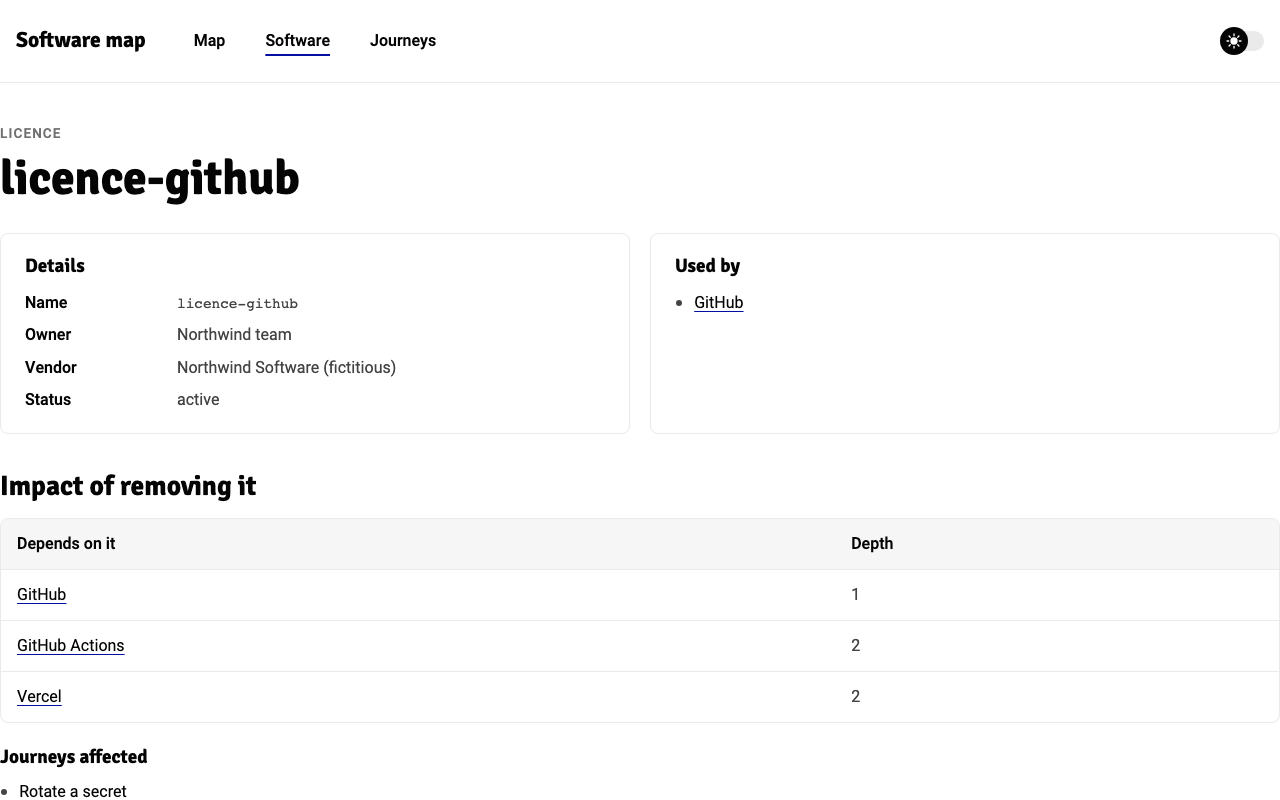
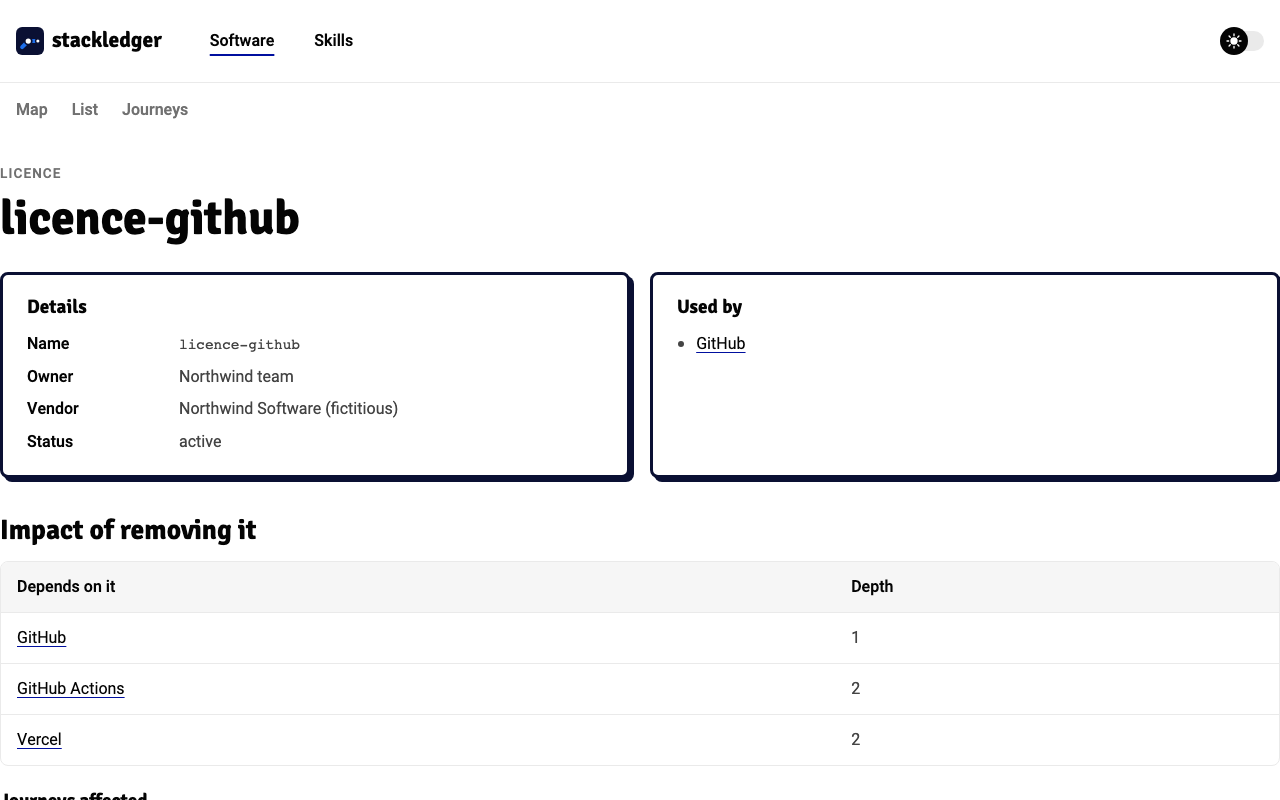
review: checkInk by value, dark rim on pressed chips, line casing and colour in Example map, site fonts from tokens; docs and README images

diff --git a/test/unit/map-svg.test.ts b/test/unit/map-svg.test.ts
@@ -61,6 +61,10 @@ test('Custom ink is refused',()=>{
  expect(()=>renderSvg(geometry(),wide)).toThrow(/outlineWidth/);
  const flat=structuredClone(themes.light);flat.shadow.enabled=false;
  expect(()=>renderSvg(geometry(),flat)).toThrow(/shadow/);
+ // Same values in another key order are the same ink; a changed value is not.
+ const reordered={...themes.dark,shadow:{dy:themes.dark.shadow.dy,dx:themes.dark.shadow.dx,color:themes.dark.shadow.color,enabled:true}};
+ expect(()=>renderSvg(geometry(),reordered)).not.toThrow();
+ expect(()=>renderSvg(geometry(),{...reordered,shadow:{...reordered.shadow,color:'#4C5CB9'}})).toThrow(/shadow/);
 });
 test('Other theme fields stay free',()=>{
  const t=structuredClone(themes.light);t.zoneOpacity=0.5;
@@ -363,7 +367,8 @@ test('Legend interchange is a capsule', () => {
 // the site draw them. Only the painting may differ, so geometry is compared, not bytes.
 function placement(svg:string){
  const doc=parseSvg(svg),groups=Array.from(doc.getElementsByTagName('g'));
- const lines=groups.filter(g=>g.getAttribute('data-ref')?.startsWith('line:')).map(g=>[g.getAttribute('data-ref'),Array.from(g.getElementsByTagName('path')).map(p=>p.getAttribute('d'))[0]]);
+ // Every path of a line: its casing and its colour.
+ const lines=groups.filter(g=>g.getAttribute('data-ref')?.startsWith('line:')).map(g=>[g.getAttribute('data-ref'),Array.from(g.getElementsByTagName('path')).map(p=>p.getAttribute('d'))]);
  // A station's outlined face is its last white-or-muted shape with an ink stroke; its centre is cx,cy or the capsule's start.
  const stations=groups.filter(g=>g.getAttribute('data-ref')?.startsWith('component:')).map(g=>{
   // Licence markers (radius 5) and renewal rings (no fill) share the group; they are not the marker.

diff --git a/site/src/styles/tokens.css b/site/src/styles/tokens.css
@@ -22,8 +22,8 @@
   --color-text-light: var(--ds-site-light-text-light);
   --color-on-primary: #ffffff;
 
-  --font-primary: "Heebo", system-ui, sans-serif;
-  --font-secondary: "Signika", system-ui, sans-serif;
+  --font-primary: var(--ds-site-font-primary);
+  --font-secondary: var(--ds-site-font-secondary);
 
   --text-base: var(--ds-site-font-size-base);
   --text-base-sm: var(--ds-site-font-size-base-small);
@@ -43,6 +43,8 @@
   /* The identity's ink frame (cards, buttons, chips): ink outline and hard shadow. */
   --frame-outline: var(--ds-outline-small) solid var(--ds-color-ink);
   --frame-shadow: var(--ds-shadow-small) var(--ds-shadow-small) 0 var(--ds-surface-light-shadow);
+  /* What a frame keeps when it is pressed down onto its shadow: nothing in light, the rim in dark. */
+  --frame-pressed: none;
 }
 
 :root[data-theme="dark"] {
@@ -61,6 +63,7 @@
 
   /* On a dark page the ink outline gets a light rim and the shadow turns indigo, as on the map. */
   --frame-shadow: 0 0 0 var(--ds-surface-dark-rim-width) var(--ds-surface-dark-rim), var(--ds-shadow-small) var(--ds-shadow-small) 0 var(--ds-surface-dark-shadow);
+  --frame-pressed: 0 0 0 var(--ds-surface-dark-rim-width) var(--ds-surface-dark-rim);
 }
 
 @media (prefers-color-scheme: dark) {
@@ -79,5 +82,6 @@
     --color-on-primary: #040404;
 
     --frame-shadow: 0 0 0 var(--ds-surface-dark-rim-width) var(--ds-surface-dark-rim), var(--ds-shadow-small) var(--ds-shadow-small) 0 var(--ds-surface-dark-shadow);
+  --frame-pressed: 0 0 0 var(--ds-surface-dark-rim-width) var(--ds-surface-dark-rim);
   }
 }

diff --git a/src/map/themes.ts b/src/map/themes.ts
@@ -86,8 +86,15 @@ export function checkInk(theme: Theme): void {
   const own = fromTokens(theme.surface, theme.zoneOpacity, theme.zoneTitleTint);
   const fields = ['outline', 'outlineWidth', 'shadow', 'rim', 'casing', 'lineWidth'] as const;
   for (const field of fields) {
-    if (JSON.stringify(theme[field]) !== JSON.stringify(own[field])) throw new Error(`Theme ${field} must be the design system's for the ${theme.surface} surface`);
+    if (!sameValue(theme[field], own[field])) throw new Error(`Theme ${field} must be the design system's for the ${theme.surface} surface`);
   }
+}
+
+/** Equal by value: numbers, strings and booleans, or objects with the same keys holding equal values, in any order. */
+function sameValue(a: unknown, b: unknown): boolean {
+  if (typeof a !== 'object' || typeof b !== 'object' || a === null || b === null) return Object.is(a, b);
+  const keys = Object.keys(b);
+  return Object.keys(a).length === keys.length && keys.every(key => Object.hasOwn(a, key) && sameValue((a as Record<string, unknown>)[key], (b as Record<string, unknown>)[key]));
 }
 
 /** How far a theme's ink reaches beyond plain geometry: the extra width of a line's casing, the

diff --git a/test/browser/site.spec.ts b/test/browser/site.spec.ts
@@ -264,6 +264,17 @@ test('Card frame in dark', async ({ page }) => {
   expect(await page.evaluate(() => getComputedStyle(document.body).backgroundColor)).toBe('rgb(28, 28, 28)');
 });
 
+test('Pressed chip keeps the dark rim', async ({ page }) => {
+  for (const [scheme, shadow] of [['light', 'none'], ['dark', 'rgb(238, 242, 255) 0px 0px 0px 1px']] as const) {
+    await page.emulateMedia({ colorScheme: scheme });
+    await page.goto('/full/map/');
+    const chip = page.locator('.line-chips .btn').first();
+    await chip.click();
+    await expect(chip).toHaveAttribute('aria-pressed', 'true');
+    expect((await frameOf(page, '.line-chips .btn[aria-pressed="true"]')).shadow, scheme).toBe(shadow);
+  }
+});
+
 test('Focus still visible', async ({ page }) => {
   for (const [scheme, accent] of [['light', 'rgb(0, 15, 159)'], ['dark', 'rgb(157, 168, 255)']] as const) {
     await page.emulateMedia({ colorScheme: scheme });

diff --git a/test/integration/site.test.ts b/test/integration/site.test.ts
@@ -178,6 +178,8 @@ test('Palette from the design system', () => {
     expect(themeVar(site, '--ds-site-light-body').light).toMatch(/^#fff(?:fff)?$/);
     expect(themeVar(site, '--ds-site-dark-body').light).toBe('#1c1c1c');
     expect(themeVar(site, '--color-body')).toEqual({ light: 'var(--ds-site-light-body)', dark: 'var(--ds-site-dark-body)' });
+    expect(themeVar(site, '--font-primary').light).toBe('var(--ds-site-font-primary)');
+    expect(themeVar(site, '--font-secondary').light).toBe('var(--ds-site-font-secondary)');
   }
 });
 

diff --git a/site/src/styles/pages.css b/site/src/styles/pages.css
@@ -108,9 +108,9 @@
   font-weight: 400;
 }
 
-/* A pressed chip sits down on its shadow. */
+/* A pressed chip sits down on its shadow; in dark it keeps its rim. */
 .line-chips .btn[aria-pressed="true"] {
-  box-shadow: none;
+  box-shadow: var(--frame-pressed);
   transform: translate(var(--ds-shadow-small), var(--ds-shadow-small));
 }
 

diff --git a/openspec/changes/design-system-identity/tasks.md b/openspec/changes/design-system-identity/tasks.md
@@ -20,35 +20,35 @@ Levels: U unit, I integration (built site), B browser (Playwright). Every scenar
 
 ## 0. Evidence for gate 1
 
-- [ ] 0.1 Build the Northwind example from `main` and from a throwaway prototype of this change (outside the branch), take the home, map, a software item, a journey, the skills map and an agent page in light and dark, and put them in a before and after contact sheet. Verify: both sheets opened and looked at; shown to the owner at gate 1.
+- [x] 0.1 Build the Northwind example from `main` and from a throwaway prototype of this change (outside the branch), take the home, map, a software item, a journey, the skills map and an agent page in light and dark, and put them in a before and after contact sheet. Verify: both sheets opened and looked at; shown to the owner at gate 1.
 
 ## 1. Dependency and tokens
 
-- [ ] 1.1 Add `@brunosouzas/design-system` `0.1.1`, the first version whose coordinate limit covers the map (design §10), as an exact production dependency and refresh `npm-shrinkwrap.json`. Verify: `npm ls @brunosouzas/design-system` shows that version; `test/unit/package-metadata.test.ts` and the package tests pass.
-- [ ] 1.2 Tests first: "Theme values are the tokens", "Light theme has no rim", "Dark shadow and rim" with `#EEF2FF`, "Custom ink is refused", "Other theme fields stay free". Verify: they fail on the branch base.
-- [ ] 1.3 `src/map/themes.ts` reads the tokens and gains `surface`; the renderers check a theme's ink against its surface (design §2, §2a). Verify: `npm test`.
+- [x] 1.1 Add `@brunosouzas/design-system` `0.1.1`, the first version whose coordinate limit covers the map (design §10), as an exact production dependency and refresh `npm-shrinkwrap.json`. Verify: `npm ls @brunosouzas/design-system` shows that version; `test/unit/package-metadata.test.ts` and the package tests pass.
+- [x] 1.2 Tests first: "Theme values are the tokens", "Light theme has no rim", "Dark shadow and rim" with `#EEF2FF`, "Custom ink is refused", "Other theme fields stay free". Verify: they fail on the branch base.
+- [x] 1.3 `src/map/themes.ts` reads the tokens and gains `surface`; the renderers check a theme's ink against its surface (design §2, §2a). Verify: `npm test`.
 
 ## 2. Piece writer
 
-- [ ] 2.1 Tests first: "Stop drawn by the piece", "Piece node outside the allow-list", "Piece text has no font of its own", "Far station drawn by the piece" (whole map, both themes). Verify: they fail.
-- [ ] 2.2 `src/map/pieces.ts`: write a piece's `{ body, text }` node tree with `tag()`, leaving out `font-family`. Verify: `npm test`.
+- [x] 2.1 Tests first: "Stop drawn by the piece", "Piece node outside the allow-list", "Piece text has no font of its own", "Far station drawn by the piece" (whole map, both themes). Verify: they fail.
+- [x] 2.2 `src/map/pieces.ts`: write a piece's `{ body, text }` node tree with `tag()`, leaving out `font-family`. Verify: `npm test`.
 
 ## 3. Map
 
-- [ ] 3.1 Tests first: "Legend interchange is a capsule" (no circle, every shape grown by half its stroke inside 24 × 24); rewrite "Example map" to compare line paths, marker centres and label positions parsed from the 0.2.0 fixtures; migrate "Legend badges fit long codes without covering the line sample" to the sample `path` (design §11). Verify: the capsule test fails; the rewritten "Example map" passes on the base.
-- [ ] 3.2 `src/map/svg.ts`: markers, lines, terminal and legend badges, rule counts and the legend's interchange through the pieces; licence marker, renewal ring, halo, zones, title band and legend panel stay local (design §3). Verify: `npm test`.
+- [x] 3.1 Tests first: "Legend interchange is a capsule" (no circle, every shape grown by half its stroke inside 24 × 24); rewrite "Example map" to compare line paths, marker centres and label positions parsed from the 0.2.0 fixtures; migrate "Legend badges fit long codes without covering the line sample" to the sample `path` (design §11). Verify: the capsule test fails; the rewritten "Example map" passes on the base.
+- [x] 3.2 `src/map/svg.ts`: markers, lines, terminal and legend badges, rule counts and the legend's interchange through the pieces; licence marker, renewal ring, halo, zones, title band and legend panel stay local (design §3). Verify: `npm test`.
 
 ## 4. Diagrams
 
-- [ ] 4.1 Tests first: "Edges point right", "Strip interchange is a capsule", "Blank title" (unit and integration), "Resource without a shadow" (title centred), "Diagram of a skill" (edge head), "Long playbook name fits", "Name with only control characters"; migrate "Strip line and stops" to pipe paths and "Terminal badge over an end interchange" to the capsule's bounds, failing when no marker shape is found. Verify: the new tests fail; the migrated ones fail only where the shape changed.
-- [ ] 4.2 `strip.ts`, `neighbourhood.ts`, `relations.ts` through the pieces (design §3 to §5, §9). Verify: `npm test`.
+- [x] 4.1 Tests first: "Edges point right", "Strip interchange is a capsule", "Blank title" (unit and integration), "Resource without a shadow" (title centred), "Diagram of a skill" (edge head), "Long playbook name fits", "Name with only control characters"; migrate "Strip line and stops" to pipe paths and "Terminal badge over an end interchange" to the capsule's bounds, failing when no marker shape is found. Verify: the new tests fail; the migrated ones fail only where the shape changed.
+- [x] 4.2 `strip.ts`, `neighbourhood.ts`, `relations.ts` through the pieces (design §3 to §5, §9). Verify: `npm test`.
 
 ## 5. Site
 
-- [ ] 5.1 Tests first: "Favicon is the mark", "Header mark with a custom title", "Palette from the design system", "Accent stays stackledger's", "Card frame in light", "Card frame in dark", "Focus still visible"; update "Description with HTML". Verify: they fail.
-- [ ] 5.2 `src/site/build.ts` copies the package's `tokens.css`; `tokens.css` reads `--ds-site-*`; `base.css` and `pages.css` get the ink frame; `Header.astro` shows the mark; `favicon.svg` is the `ledgerMark` (design §6 to §8). Verify: `npm run build && npm test`, `npm run test:browser`.
+- [x] 5.1 Tests first: "Favicon is the mark", "Header mark with a custom title", "Palette from the design system", "Accent stays stackledger's", "Card frame in light", "Card frame in dark", "Focus still visible"; update "Description with HTML". Verify: they fail.
+- [x] 5.2 `src/site/build.ts` copies the package's `tokens.css`; `tokens.css` reads `--ds-site-*`; `base.css` and `pages.css` get the ink frame; `Header.astro` shows the mark; `favicon.svg` is the `ledgerMark` (design §6 to §8). Verify: `npm run build && npm test`, `npm run test:browser`.
 
 ## 6. Images and documentation
 
-- [ ] 6.1 Build the Northwind example site again from the branch, take the same pages in both themes, look at each, and regenerate the README images that changed (`docs/images/site-home.png`, `site-map-light.png`, `site-map-dark.png`, and any other in `docs/images/` that shows a changed page). Verify: images opened and checked.
-- [ ] 6.2 Update `README.md` (dependency, images), `docs/map.md`, `docs/site.md` and `docs/roadmap.md`. Verify: `test/integration/docs.test.ts`, `openspec validate --all --strict --no-interactive`, `git diff --check`.
+- [x] 6.1 Build the Northwind example site again from the branch, take the same pages in both themes, look at each, and regenerate the README images that changed (`docs/images/site-home.png`, `site-map-light.png`, `site-map-dark.png`, and any other in `docs/images/` that shows a changed page). Verify: images opened and checked.
+- [x] 6.2 Update `README.md` (dependency, images), `docs/map.md`, `docs/site.md` and `docs/roadmap.md`. Verify: `test/integration/docs.test.ts`, `openspec validate --all --strict --no-interactive`, `git diff --check`.

diff --git a/docs/map.md b/docs/map.md
@@ -37,7 +37,9 @@ Zones follow declaration order. Components join through `metadata.labels["stackl
 
 Routes use horizontal, vertical and 45-degree grid steps. Every station except a hop's endpoints is blocked. A hop stays inside its endpoint box expanded by three cells and never turns more than 90 degrees. Searches use A* with a binary heap and a 50,000-state limit. A hop takes the shortest route; among routes of equal length it prefers, in order, fewer cells beside other stations, fewer and gentler bends, fewer diagonal crossings of used corridors, running straight through its end stations, and reusing edges other hops already use. A failed hop is drawn straight and reported with its line and endpoints on stderr. Shared hops use one route. Lines sharing any grid edge occupy separate slots in line order, independent of travel direction. When every line on an edge continues together onto the next edge, the bundle keeps each line on the same side through the bend instead of re-sorting it by the new edge's direction, so a bundle never crosses itself at a corner. Bends are mitred: the two offset segments meet where their lines intersect. A slot change on a straight run uses one short 45-degree connector. Fixed slot order can still introduce crossings where bundles split or merge at interchanges.
 
-The `light` and `dark` themes preserve the catalogue's line and zone colours. All other colours, the font stack, line width, outline, casing, shadow and rim live in [src/map/themes.ts](../src/map/themes.ts). Both themes follow the illustrated diagrams of brunosouzas.com: lines are thick pipes (12 units of line colour in an ink `#0A1033` casing 6 units wider, round caps and joins; bundled lines sit side by side without overlapping); stations are white circles wider than the pipe, interchanges white capsules spanning all their lines, terminal badges pills; stations, badges, licence markers and the legend panel are stickers with an ink outline and a hard offset shadow, drawn as a shifted copy (no `transform` or `filter`); renewal rings have an ink outline. `light` sits on the tinted panel `#EEF2FF` with ink shadows; `dark` sits on navy `#14215A` with indigo `#4C5CB8` shadows and a light `#EEF1FF` rim around each sticker. Text uses `Lato, Helvetica Neue, Helvetica, Arial, sans-serif` and labels are bold; the site ships Lato, a standalone SVG names the stack and falls back to system fonts. Label and badge placement count the ink: segments are as wide as their casing, and markers and badges grow by their outline and shadow (`layoutMap(model, theme.lineWidth, inkOf(theme))`). Zone titles use the zone colour in `light` and a lighter tint of it in `dark` (`zoneTitleTint`), so they stay readable on the dark background. The renderer consumes Theme data without branching on a theme name. No font or other resource is fetched.
+The `light` and `dark` themes preserve the catalogue's line and zone colours. Every other colour and measure comes from the tokens of [`@brunosouzas/design-system`](https://www.npmjs.com/package/@brunosouzas/design-system), the visual identity of brunosouzas.com: each theme reads its `surface` (`light` or `dark`), the `map` measures and the fixed `color` meanings; [src/map/themes.ts](../src/map/themes.ts) only adds the zone opacity and title tint, which have no token. Stations, interchanges, lines, terminal badges and rule counts are drawn by the package's pieces (`stationMarker`, `pipe`, `lineBadge`, `countBadge`), written through this map's own SVG writer so the rules below apply to them. Both themes follow the illustrated diagrams of brunosouzas.com: lines are thick pipes (12 units of line colour in an ink `#0A1033` casing 6 units wider, round caps and joins; bundled lines sit side by side without overlapping); stations are white circles wider than the pipe, interchanges white capsules spanning all their lines, terminal badges pills; stations, badges, licence markers and the legend panel are stickers with an ink outline and a hard offset shadow, drawn as a shifted copy (no `transform` or `filter`); renewal rings have an ink outline. `light` sits on the tinted panel `#EEF2FF` with ink shadows; `dark` sits on navy `#14215A` with indigo `#4C5CB8` shadows and a light `#EEF2FF` rim around each sticker. Text uses `Lato, Helvetica Neue, Helvetica, Arial, sans-serif` and labels are bold; the site ships Lato, a standalone SVG names the stack and falls back to system fonts. Label and badge placement count the ink: segments are as wide as their casing, and markers and badges grow by their outline and shadow (`layoutMap(model, theme.lineWidth, inkOf(theme))`). Zone titles use the zone colour in `light` and a lighter tint of it in `dark` (`zoneTitleTint`), so they stay readable on the dark background. The renderer consumes Theme data without branching on a theme name. No font or other resource is fetched.
+
+A theme's ink must be its surface's. The renderers (`renderSvg` and the diagram renderers) throw before drawing when `outline`, `outlineWidth`, `shadow`, `rim`, `casing` or `lineWidth` differs from the design system's values for the theme's `surface`, and the error names the first such field (`Theme shadow must be the design system's for the dark surface`). The pieces paint that ink from the tokens, while the layout counts the theme's values, so a different ink would misplace labels. Other fields, such as `zoneOpacity`, `zoneTitleTint`, `background` or `font`, stay free. To start a custom theme, copy `themes.light` or `themes.dark` and change only those.
 
 The output has a fixed element/attribute vocabulary, escaped XML text, validated hex colours and finite numbers rounded to two decimals. It contains no links, scripts, CSS, external references, document types or processing instructions. Identical served documents, theme and date yield byte-identical SVG, regardless of file names or document order.
 

diff --git a/docs/site.md b/docs/site.md
@@ -100,7 +100,7 @@ Without JavaScript every page still works as a document: the whole map, both leg
 
 ### Look and settings
 
-The look follows brunosouzas.com (based on the Astroplate theme, MIT), with the Heebo and Signika fonts shipped in the package. The map and the diagrams use the style of the site's illustrations (ink outlines, hard offset shadows, see [the map](map.md#routes-and-themes)) and the Lato font, also shipped in the package (`@fontsource/lato`, SIL Open Font License 1.1). A theme switch in the header follows the system's light or dark setting until the reader chooses, then remembers the choice in the browser for every page of that site. `spec.site` in the `Settings` document sets the site title and up to four light-theme colours; see [the catalogue format](catalogue-format.md#settings-and-views).
+The look follows brunosouzas.com (based on the Astroplate theme, MIT), with the Heebo and Signika fonts shipped in the package. Its palette, fonts and type scale come from the `site` tokens of `@brunosouzas/design-system`: the build copies the package's `tokens.css` into each site, so no stylesheet is fetched. The accent stays stackledger's (`#000f9f` light, `#9da8ff` dark). Cards, buttons and panels have the ink frame of the site's illustrations: a 3px ink outline with a hard 4px offset shadow, and in dark a 1px light rim and an indigo shadow. The favicon and the mark beside the site title in the header are the package's `ledgerMark` (the mark is decorative: empty `alt`). The map and the diagrams use the style of the site's illustrations (ink outlines, hard offset shadows, see [the map](map.md#routes-and-themes)) and the Lato font, also shipped in the package (`@fontsource/lato`, SIL Open Font License 1.1). A theme switch in the header follows the system's light or dark setting until the reader chooses, then remembers the choice in the browser for every page of that site. `spec.site` in the `Settings` document sets the site title and up to four light-theme colours; see [the catalogue format](catalogue-format.md#settings-and-views).
 
 **Known limitation:** a remembered theme is applied by a script file after the page starts to load (the policy forbids inline scripts), so a page can show the system theme for a moment before switching.
 

diff --git a/docs/roadmap.md b/docs/roadmap.md
@@ -14,6 +14,7 @@ The first version (v1) is split into OpenSpec changes, delivered in this order. 
 | 6 | `mac-discovery` | `stackledger discover` (Homebrew formulae and casks, App Store through `mas`, `/Applications` and `~/Applications`, launchd, mise, global npm packages and pipx; every program in the macOS sandbox with network and writes denied; one snapshot file per machine in `~/.stackledger/<machine>/`) and `stackledger drift` (installed but not declared, declared but missing, not checked), matched only through `stackledger/<source>` annotations; it proposes annotations and `dependsOn` relations a person confirms, and `--scaffold` writes draft component files outside the catalogue | Delivered ([#8](https://github.com/brunosouzas/stackledger/pull/8)); spec in `openspec/specs/mac-discovery/`, `discover-command/` and `drift-command/` |
 | 7 | `catalogue-deployment` | Publishable npm package, owner-approved release workflow with provenance and SBOM, a catalogue repository pipeline template, and protected hosting recipes ([ADR 6](adr/0006-authentication-at-an-identity-aware-proxy.md)) | Delivered, released as 0.1.0 ([#9](https://github.com/brunosouzas/stackledger/pull/9)) |
 | 8 | `map-theme-ink` | The map and the page diagrams in the illustrated style of brunosouzas.com: ink outline `#0A1033`, pipe lines with an ink casing, hard offset shadows (indigo with a light rim on dark), the tinted panel and navy backgrounds, and the Lato font shipped with the site; it replaces the look of the `light` and `dark` themes | Delivered ([#10](https://github.com/brunosouzas/stackledger/pull/10)) |
+| 9 | `design-system-identity` | The map, the page diagrams and the site drawn with [`@brunosouzas/design-system`](https://www.npmjs.com/package/@brunosouzas/design-system), the identity of brunosouzas.com: its tokens for both themes, its pieces for stations, interchanges (capsules on the map, the line strip and the legend), lines, badges, rule counts and diagram boxes and arrows, its `ledgerMark` as the favicon and header mark, and the ink frame on cards and buttons; a theme with its own ink is refused | In progress ([#29](https://github.com/brunosouzas/stackledger/pull/29), AB#164) |
 
 ## v2: agent skills
 

diff --git a/README.md b/README.md
@@ -60,6 +60,7 @@ The diagram as Mermaid, and the personal and corporate modes: [docs/how-it-works
 4. **The website is static.** No server, no database, nothing to patch. Why: [ADR 5](docs/adr/0005-static-site-no-server.md).
 5. **It is written in TypeScript**, so the same map engine runs at build time and in the browser. Why: [ADR 9](docs/adr/0009-typescript-end-to-end.md).
 6. **Agent skills are a second ledger in the same tool.** The skills, agents, playbooks and rules your AI agents use are read from their own folders, never copied into YAML. `stackledger skills validate` checks them, `stackledger skills map` draws them in the skills repository, and since 0.3.0 the site has a Skills section next to Software; linking each skill to the software it needs is planned. Why: [ADR 10](docs/adr/0010-agent-skills-are-a-second-ledger-read-from-their-folders.md).
+7. **It looks like brunosouzas.com.** The map, the diagrams, the favicon and the site's colours and fonts come from [`@brunosouzas/design-system`](https://www.npmjs.com/package/@brunosouzas/design-system), a dependency of the published package with no dependencies of its own; stackledger keeps the layout and writes every piece through its own SVG writer. See [the map](docs/map.md#routes-and-themes) and [the site](docs/site.md).
 
 [How it works, end to end](docs/how-it-works.md) draws the publication path: a push to `main` of the private catalogue repository, GitHub Actions, Cloudflare Pages behind Cloudflare Access, and the personal (one site, one reader) and corporate (two sites) modes.
 
